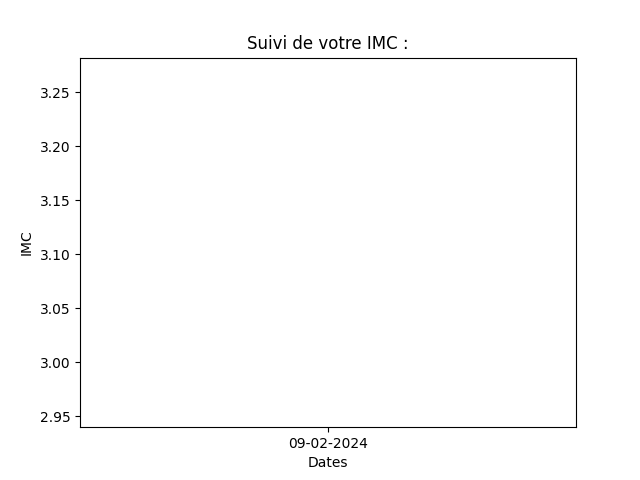
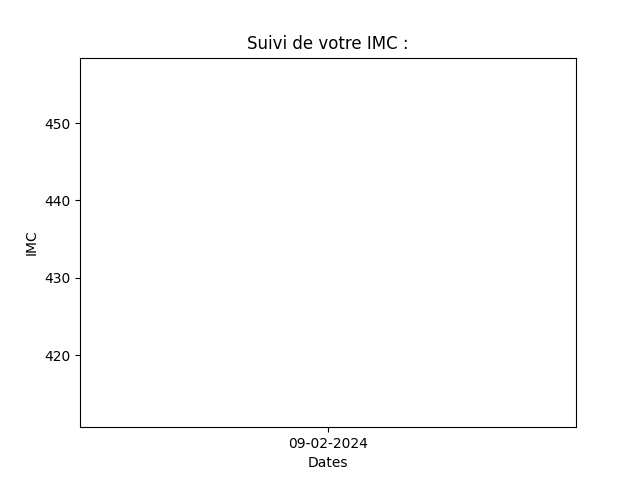
Modified IMC return

diff --git a/templates/report.html b/templates/report.html
@@ -17,7 +17,7 @@
         <h2>{{message}}</h2>
         <form class="return" method="post">
             <input type="hidden" name="takeform" value="takeform">
-            <input type="submit" value="si vous n'avez pas passer le test appuis ici">
+            <input type="submit" value="si vous n'avez pas passé le test appuis ici">
         </form>
         {% endif %}
         <div class="image-container">

diff --git a/views.py b/views.py
@@ -75,8 +75,8 @@ def report(username):
             return redirect(url_for("views.form", username=username))
     
     if len(database_functions.get_today_info(username))==0:
-        bpm_message = imc_message = pressure_message = oxy_sat_message = "Vous n'avez pas remplis le formulaire aujoud'hui"
-        message = "Vous n'avez pas remplis le formulaire aujourd'hui! Pour avoir un suivi personalisé, veuillez remplir le formulaire chaque jour."
+        bpm_message = imc_message = pressure_message = oxy_sat_message = "Vous n'avez pas rempli le formulaire aujoud'hui"
+        message = "Vous n'avez pas rempli le formulaire aujourd'hui! Pour avoir un suivi personalisé, veuillez remplir le formulaire chaque jour."
         boolean = True
     else:
         message = ""
@@ -84,7 +84,7 @@ def report(username):
         height,weight,bpm,oxy_sat,tas,tad, sex, birthday = database_functions.get_today_info(username)[0]
         age = getvalues_functions.get_age(birthday)
         bpm_message = checkvalues_functions.check_bpm(bpm, sex, age)
-        imc_message = checkvalues_functions.check_imc(getvalues_functions.get_imc(height, weight))
+        imc_message = checkvalues_functions.check_imc(getvalues_functions.get_imc(weight, height))
         pressure_message = checkvalues_functions.check_pressure(tas, tad)
         oxy_sat_message = checkvalues_functions.check_saturation(oxy_sat)
         graph_functions.delete_allgraph()
@@ -96,6 +96,6 @@ def report(username):
     oxy_sat_image = graph_functions.oxysat_graph(getvalues_functions.get_oxysat_values(username))
 
     name,lastname = database_functions.get_name_lastname(username)
-    welcome = "Bienvenue " + str(name) + " " + str(lastname) + "!"
+    welcome = "Bienvenue " + str(name) + " " + str(lastname) + " !"
     return render_template("report.html", bpmimage=bpm_image, bpmmessage=bpm_message, imcimage=imc_image, imcmessage=imc_message, pressureimage=pressure_image, pressuremessage= pressure_message, oxysatimage=oxy_sat_image, oxysatmessage=oxy_sat_message, welcome=welcome, message=message, boolean=boolean)
 

diff --git a/getvalues_functions.py b/getvalues_functions.py
@@ -66,9 +66,9 @@ def get_pressure_values(username): #To get the blood pressure
     return pressure_date
 
 def get_imc(weight, height): #To calculate the IMC
-    weight = float(weight) # kg
-    height = float(height*0.1) # cm
+    height = height/100 # cm => m
     imc = (weight/(height*height))
+    print(imc)
     return imc
 
 def get_age(birthday):
